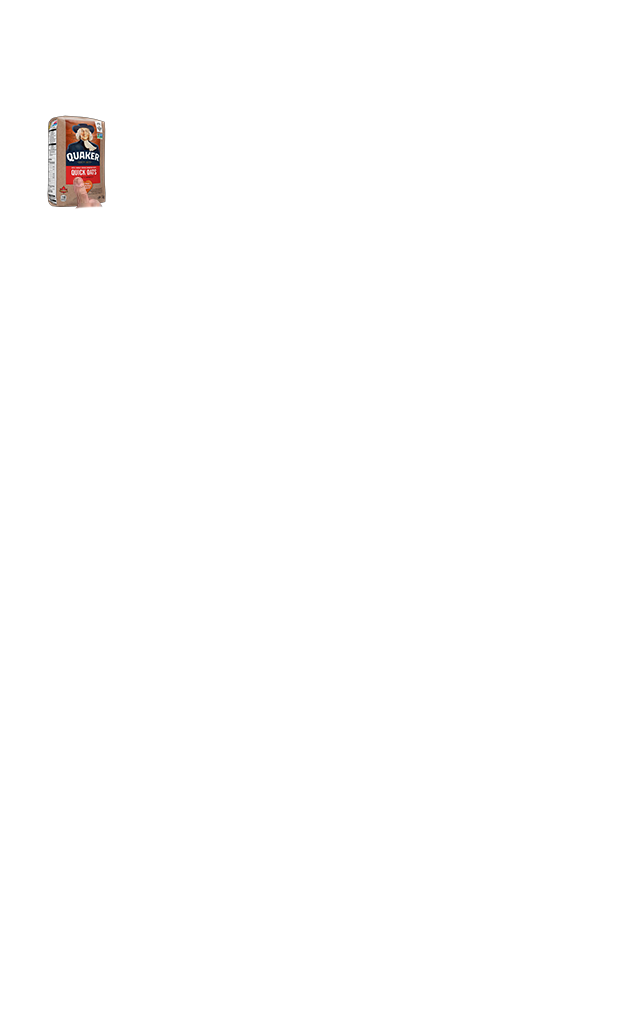
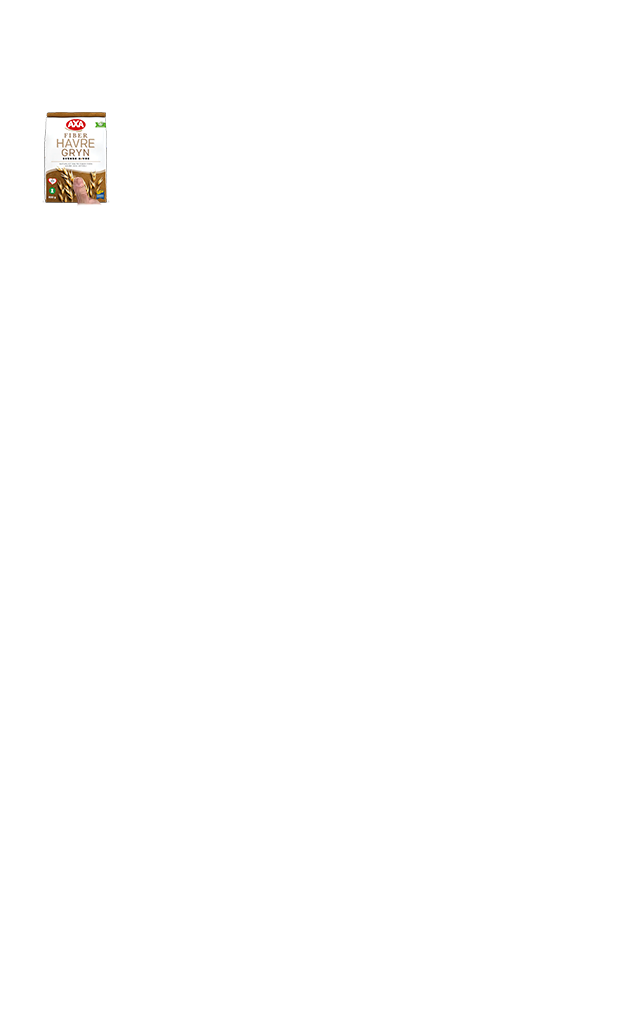
axa

Changed region(s): [[0.0606, 0.092, 0.1818, 0.2146]]

diff --git a/index.html b/index.html
@@ -7,7 +7,7 @@
     <meta property="og:url" content="https://iselasponsored.com/">
     <meta property="og:title" content="Is Ela Sponsored?">
     <meta property="og:description" content="Which brands are unofficially sponsoring myega influencer Ela">
-    <meta property="og:image" content="https://iselasponsored.com/stare.png">    
+    <meta property="og:image" content="https://iselasponsored.com/stare.png">
     <link rel="stylesheet" href="https://cdnjs.cloudflare.com/ajax/libs/awesomplete/1.1.7/awesomplete.base.min.css"
         integrity="sha512-NozyuE047CUbwhtOgj/mo3K0NFmVSrHNVm9l1/1qUMc2CuU2na8cWYPk/ksYX4tMoRwWJ+bLFKsdO8OHM3X+yA=="
         crossorigin="anonymous" referrerpolicy="no-referrer" />
@@ -23,6 +23,22 @@
             padding: 0px;
             margin: 0px;
             font-family: 'Segoe UI', Tahoma, Geneva, Verdana, sans-serif;
+        }
+
+        a:link {
+            color: white;
+        }
+
+        a:visited {
+            color: white;
+        }
+
+        a:hover {
+            color: white;
+        }
+
+        a:active {
+            color: white;
         }
 
         h1 {
@@ -95,7 +111,7 @@
     </style>
     <script type="text/javascript">
         const ADS = [
-            ['Quaker Oats', 'oats', 'oats.png'],
+            ['AXA Oats', 'oats', 'oats.png'],
             ['GARMIN Watch', 'garmin', 'watch.png'],
             ['Herman Miller Chair', 'herman', 'chair.png', 'behind'],
             ['DJI Osmo Camera', 'osmo', 'camera.png'],
@@ -169,13 +185,15 @@
             <img class="image" src="ela_ad.png">
         </div>
         <div id="controls">
-            <h2>Check if Ela is sponsored by?</h2>
+            <h2>Is Ela sponsored by...</h2>
             <input id="query" autocomplete="off" class="awesomplete" list="mylist" data-minchars="0"
                 data-maxitems="3" />
             <input type="button" value="Check" onclick="handleCheck()" />
             <input type="button" value="Highlight all" onclick="handleShowAll()" />
             <div id="result">&nbsp;</div>
-            <footer>Any #ads missing? Mention them in the Discord <a href="https://discord.com/channels/128836859735441408/1155972801317064704">Meme Chat</a> channel </footer>
+            <footer>Any #ads missing? Mention them in the Discord <a
+                    href="https://discord.com/channels/128836859735441408/1155972801317064704">Meme Chat</a> channel
+            </footer>
         </div>
     </div>
 </body>
